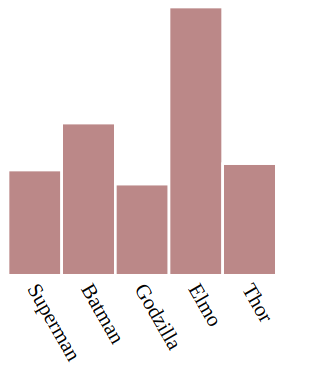
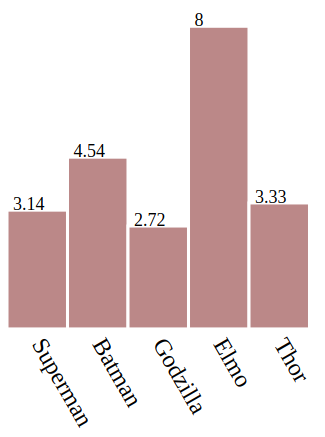
Add magnitude labels to bars

Changed region(s): [[0.0, 0.0, 0.9538, 0.9894]]

diff --git a/index.js b/index.js
@@ -14,21 +14,23 @@
  *    for example ['#abc89d', '#0F0']
  *  - fill (array of color strings)
  *    for example ['#abc89d', 'blue' 'green']
- *  - labels (array of Objects with text and position properties)
+ *  - labels (array of strings to label the x axis)
  */
 
 function svg(data = [], config = {}) {
   // map each datum into an object containing a text and rect tag
   const tags = makeTags(data, config);
   // unzip the text and rect tags into their own arrays
-  const {textTags, rectTags} = tags.reduce((acc, dataPoint) => {
+  const {textTags, rectTags, yLabelTags} = tags.reduce((acc, dataPoint) => {
     acc.textTags.push(dataPoint.textTag);
     acc.rectTags.push(dataPoint.rectTag);
+    acc.yLabelTags.push(dataPoint.yLabelTag);
     return acc;
-  }, {textTags: [], rectTags: []});
+  }, {textTags: [], rectTags: [], yLabelTags: []});
   const bars = makeTag('g', rectTags, (config.attributes || {}).bars);
   const labels = makeTag('g', textTags, (config.attributes || {}).labels);
-  return svgTag(`${bars}${labels}`, (config.attributes || {}).chart);
+  const yLabels = makeTag('g', yLabelTags, (config.attributes || {}).yLabels);
+  return svgTag(`${bars}${labels}${yLabels}`, (config.attributes || {}).chart);
 }
 
 function svgTag(inner, attributes = []) {
@@ -65,6 +67,7 @@ function getBars(data) {
 
   return data.map((magnitude, index) => {
     return {
+      magnitude,
       height: getBarHeight(magnitude, maximum),
       width,
       offset: getBarOffset(index, totalBars),
@@ -72,7 +75,12 @@ function getBars(data) {
   });
 }
 
-function makeRectTag(x, y, height, width, stroke, fill) {
+function makeRectTag(bar, stroke, fill) {
+  const x = bar.offset;
+  const y = 100 - bar.height;
+  const height = bar.height;
+  const width = bar.width;
+
   const rectTag = `<rect x="${x}" y="${y}" \
     height="${height}" width="${width}" \
     style="stroke: ${stroke}; fill: ${fill};"/>`;
@@ -84,25 +92,42 @@ function makeTags(data, config) {
   const fill = config.fill || ['#ccc'];
   const labels = config.labels || [];
   const labelOptions = config.labelOptions || {};
+  const barDecorationOptions = config.barDecorationOptions || {};
   const makeTextTag = labelBelow;
   let textTag = '';
+  let yLabelTag = '';
 
   return getBars(data).map((bar, index) => {
     const nextStroke = stroke[index % stroke.length];
     const nextFill = fill[index % fill.length];
-    const rectTag = makeRectTag(bar.offset, 100 - bar.height, bar.height, bar.width, nextStroke, nextFill);
+    const rectTag = makeRectTag(bar, nextStroke, nextFill);
     if (labels[index]) {
       textTag = makeTextTag(bar.offset, labels[index], labelOptions);
     }
-    return {textTag, rectTag};
+    if (config.barDecoration !== false) {
+      const barDecoration = config.barDecoration || numberAbove;
+      yLabelTag = barDecoration(bar, index, barDecorationOptions);
+    }
+    return {textTag, rectTag, yLabelTag};
   });
 }
 
-// <text x="5" y="105" font-size="8px" transform="rotate(50 5,105)">Superman</text>
+function numberAbove(bar, index, config = {}) {
+  const x = bar.offset;
+  const y = 100 - bar.height;
+  const fontSize = (config || {}).fontSize || '8px';
+
+  return `<text x="${x}" y="${y}" font-size="${fontSize}"> \
+  ${bar.magnitude}</text>`;
+}
+
+// <text x="5" y="105" font-size="8px" transform="rotate(50 5,105)">
+// Superman</text>
 function labelBelow(offset, label, config = {}) {
-  const fontSize = (config || {}).fontSize || "8px";
-  const rotate = (config || {}).rotate || 60;
-  const x = offset + ((config || {}).padding || 7);
+  const fontSize = (config || {}).fontSize || '8px';
+  const rotate = (config || {}).rotate || 90;
+  // half of the bar width, then back 1/4 the font size
+  const x = offset + ((config || {}).padding || 8);
   const y = 105;
 
   return `<text x="${x}" y="${y}" font-size="${fontSize}" \

diff --git a/test/test.js b/test/test.js
@@ -48,16 +48,19 @@ describe('#getBars', function() {
 
   it('should handle a single data point', function() {
     expect(getBars([0])).to.eql([{
+      magnitude: 0,
       height: 0,
       width: 100,
       offset: 0,
     }]);
     expect(getBars([1])).to.eql([{
+      magnitude: 1,
       height: 100,
       width: 100,
       offset: 0,
     }]);
     expect(getBars([5])).to.eql([{
+      magnitude: 5,
       height: 100,
       width: 100,
       offset: 0,
@@ -66,10 +69,10 @@ describe('#getBars', function() {
 
   it('should handle multiple points', function() {
     expect(getBars([0, 1, 0, 2])).to.eql([
-      {height: 0, width: 25, offset: 0},
-      {height: 50, width: 25, offset: 25},
-      {height: 0, width: 25, offset: 50},
-      {height: 100, width: 25, offset: 75},
+      {magnitude: 0, height: 0, width: 25, offset: 0},
+      {magnitude: 1, height: 50, width: 25, offset: 25},
+      {magnitude: 0, height: 0, width: 25, offset: 50},
+      {magnitude: 2, height: 100, width: 25, offset: 75},
     ]);
   });
 });

diff --git a/demo.js b/demo.js
@@ -9,11 +9,28 @@ app.get('/', (req, res) => {
   const config = {
     attributes: {
       chart: [
-        'viewBox="0 0 120 240"', // the base image of the bars is 100 by 100 square
+        // the base image of the bars is 100 by 100 square
+        'viewBox="0 0 120 150"',
+      ],
+      bars: [
+        'transform="translate(0,10)"',
+      ],
+      labels: [
+        'transform="translate(0,10)"',
+      ],
+      yLabels: [
+        'transform="translate(2,10)"',
+        'fontSize="6px"',
       ],
     },
     labels: ['Superman', 'Batman', 'Godzilla', 'Elmo', 'Thor'],
     fill: ['#b88'],
+    barDecorationOptions: {
+      fontSize: '6px',
+    },
+    labelOptions: {
+      rotate: 60,
+    },
   };
   const chart = barChart.svg(data, config);
   /* in real life the chart would be included in a proper html 5 document
